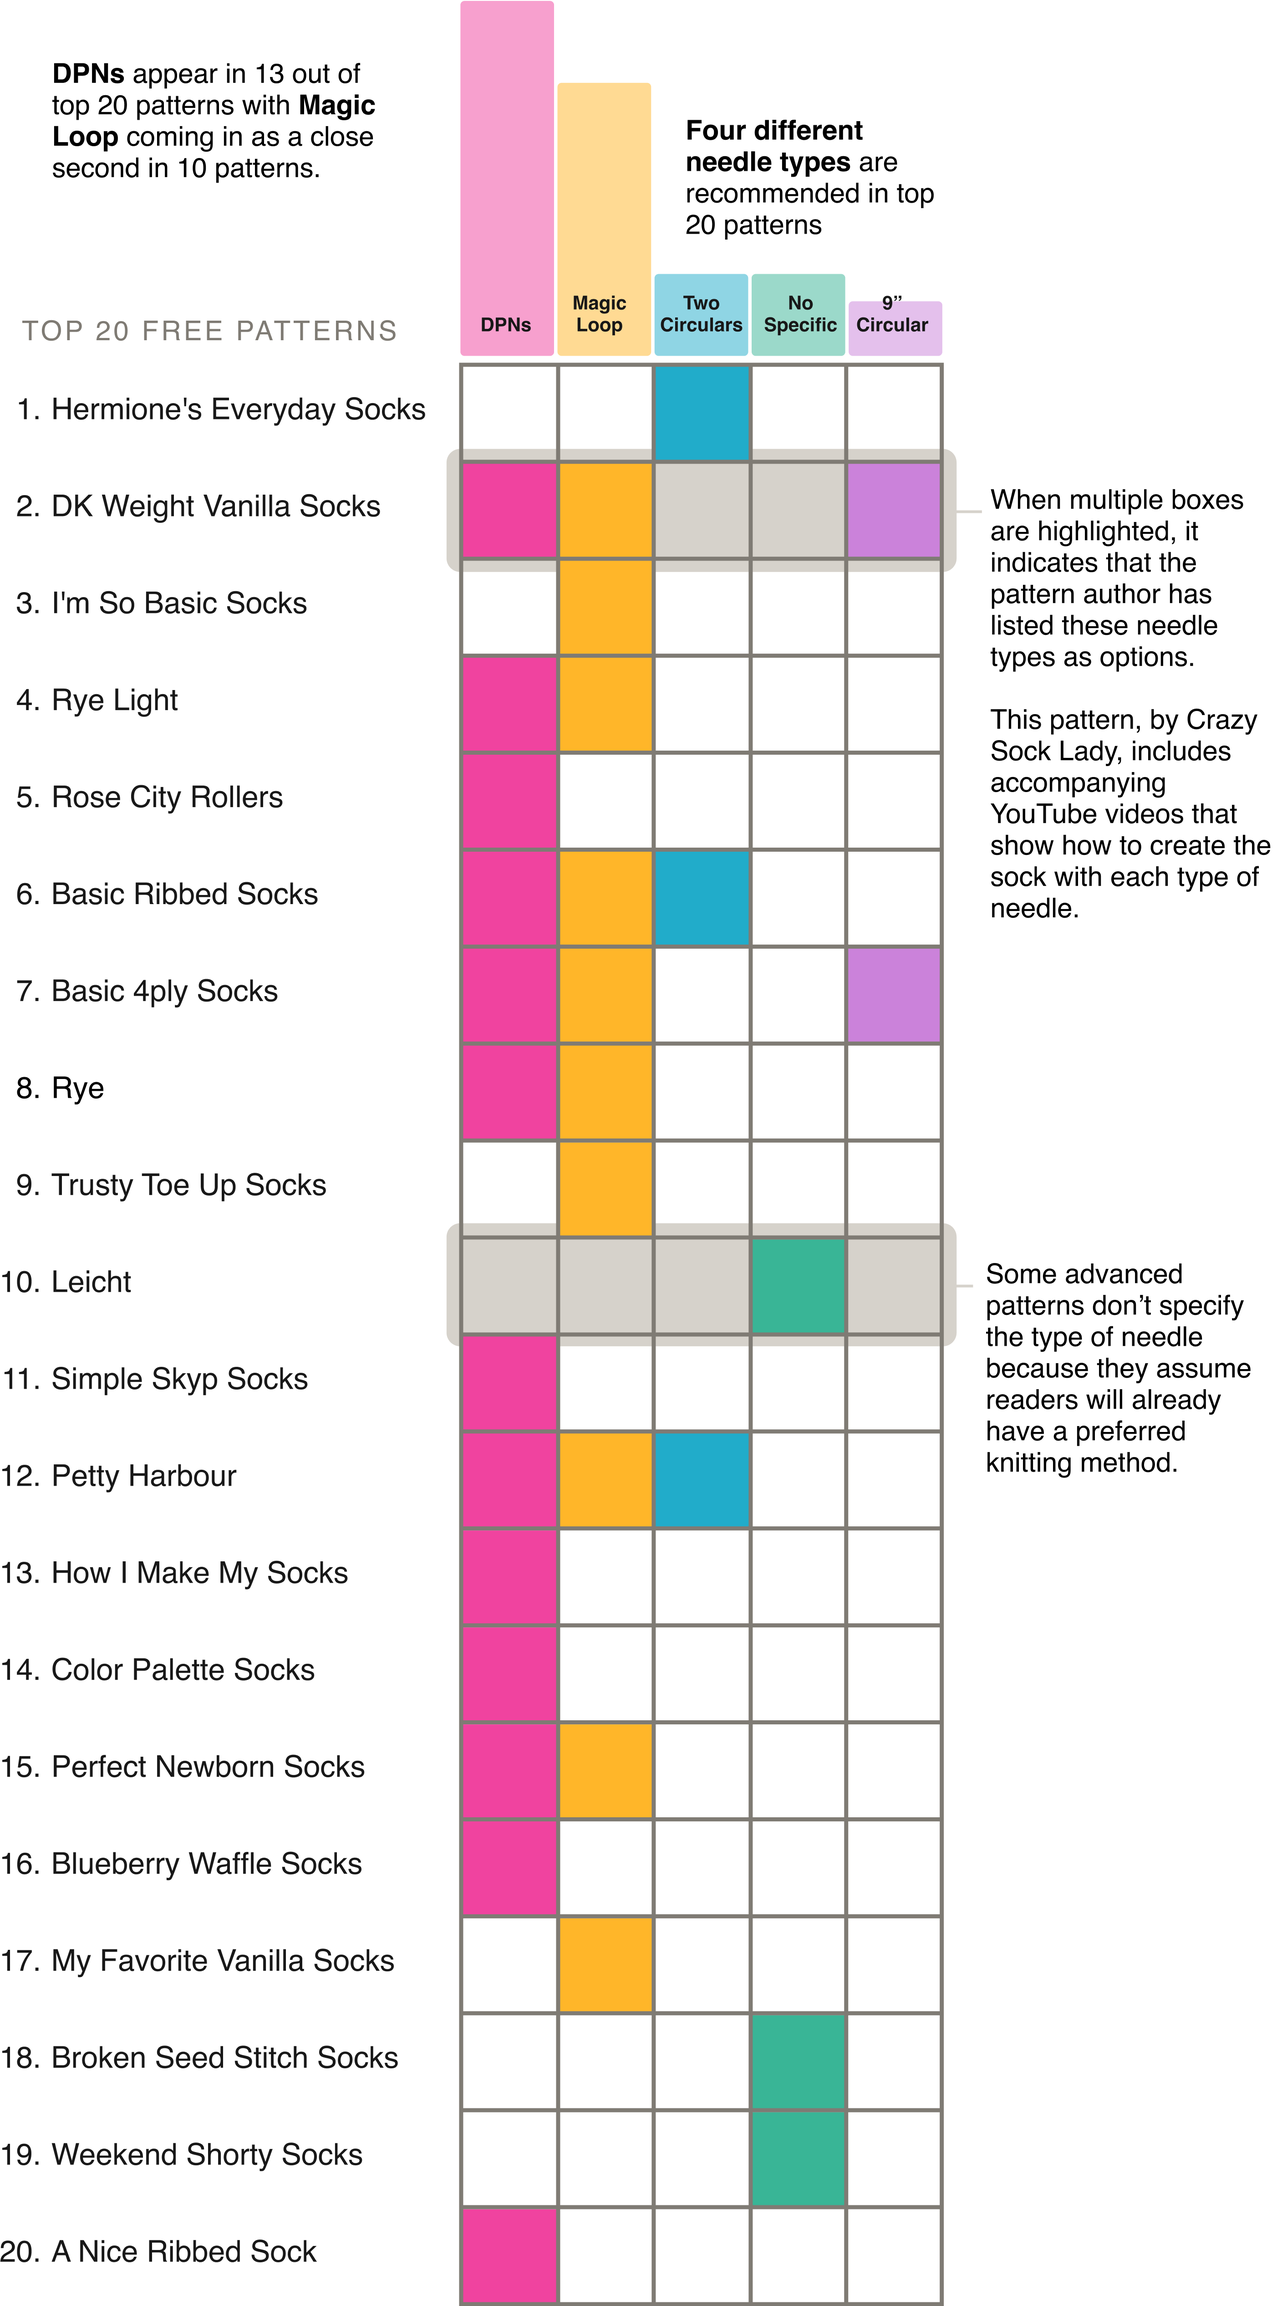
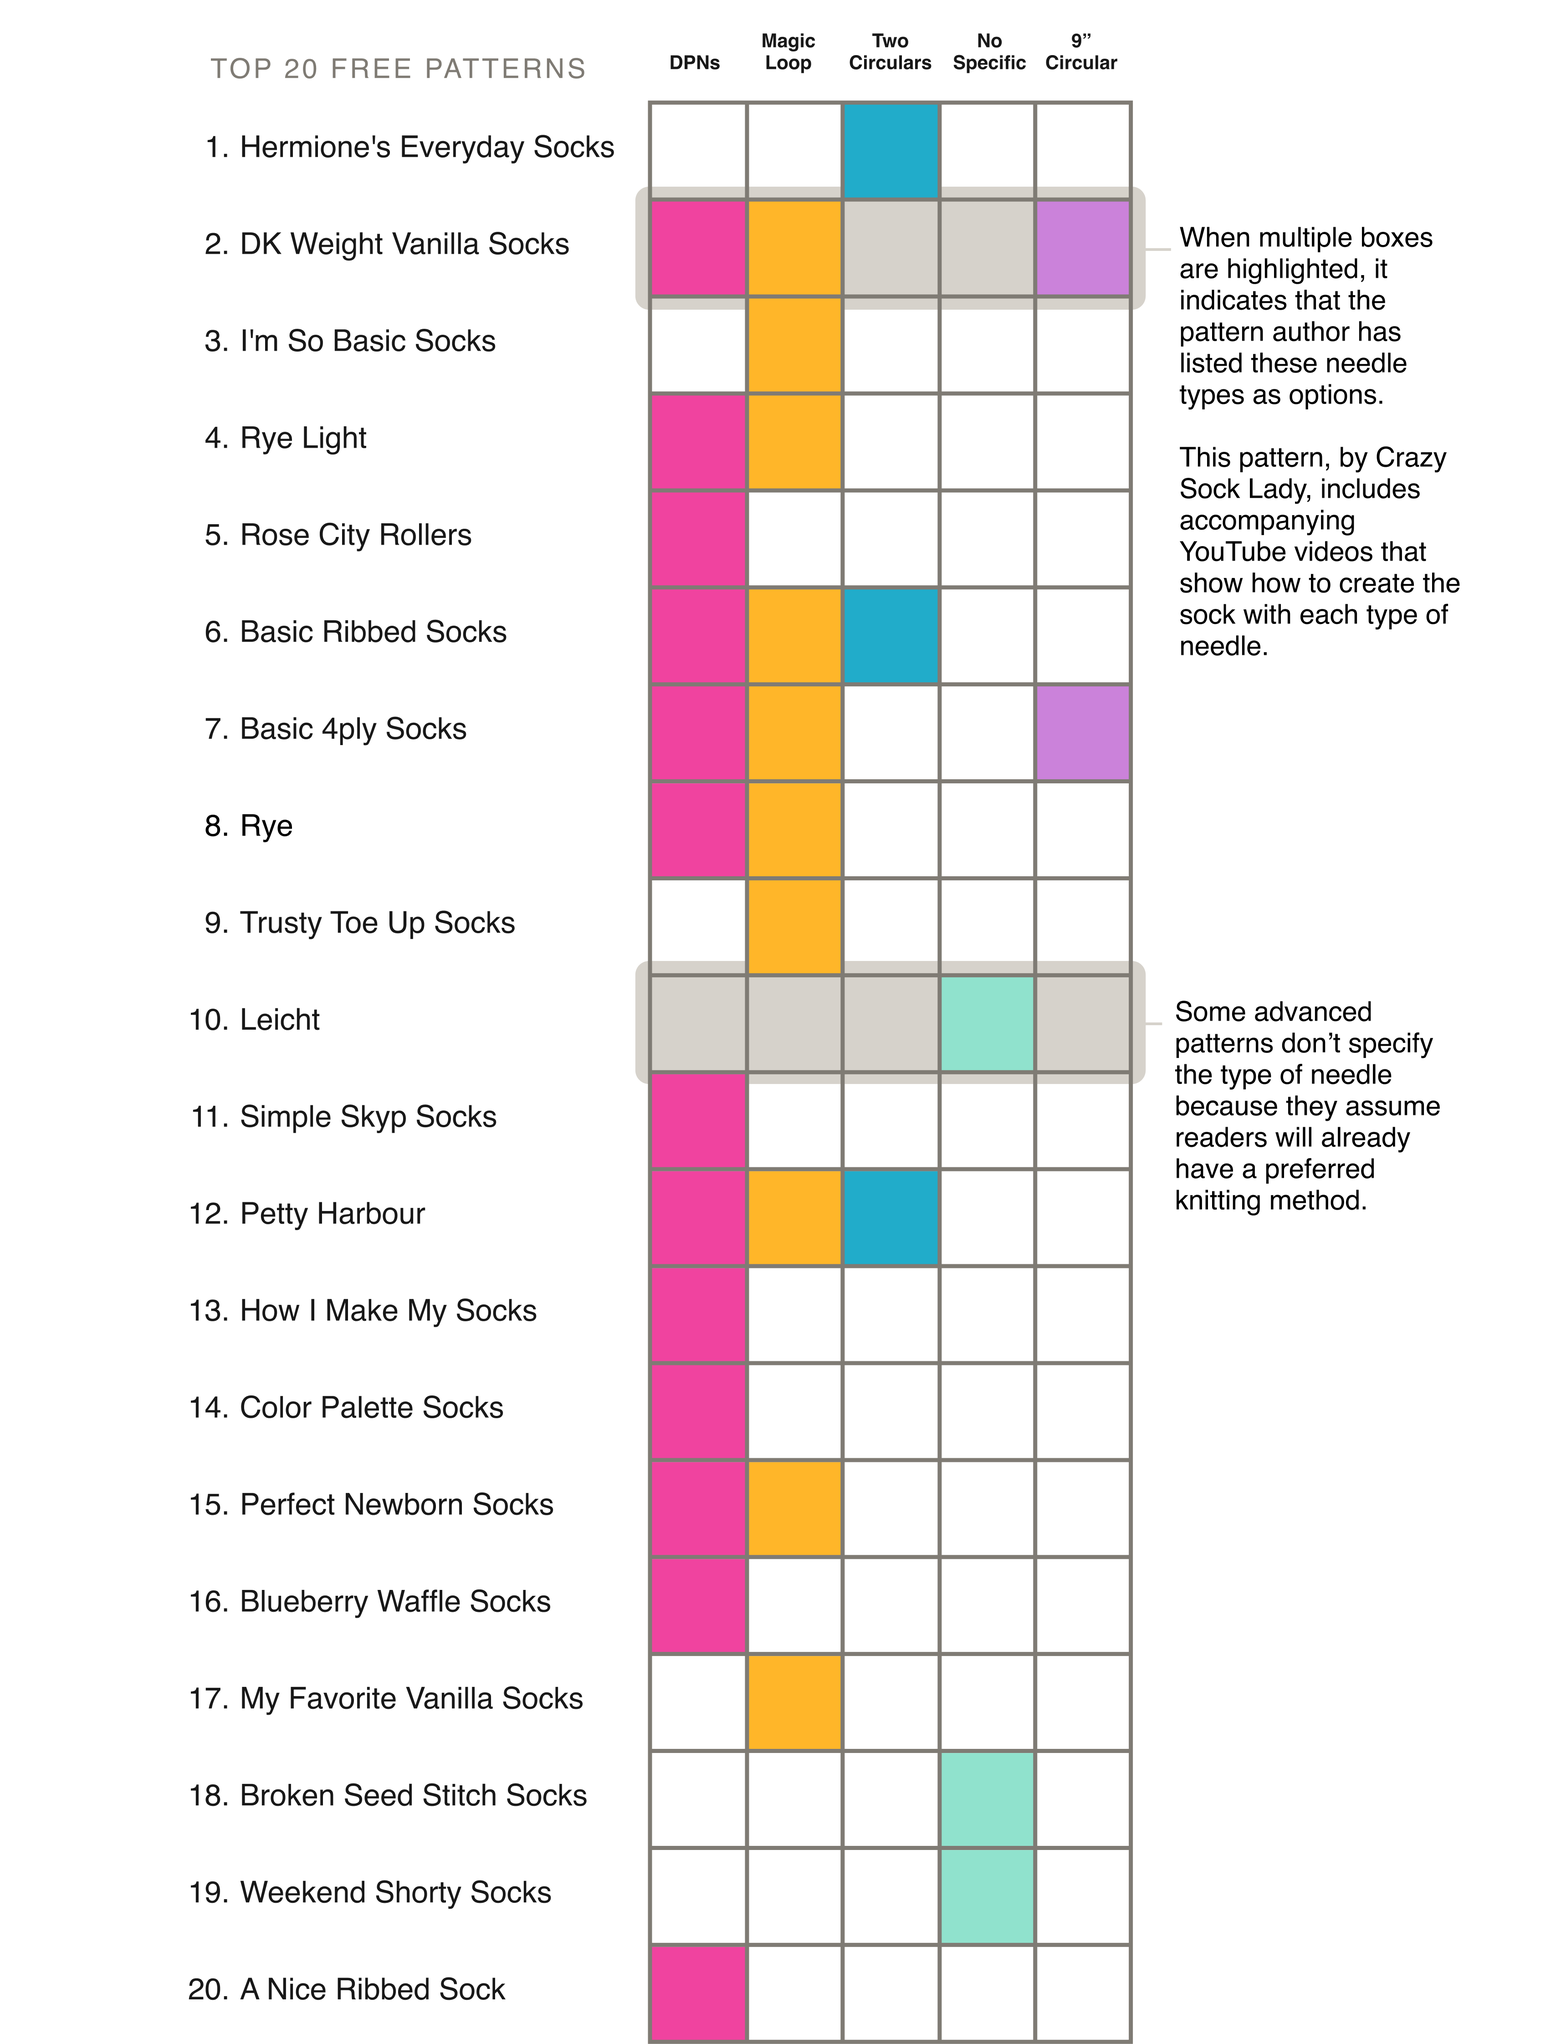
update difficulty chart and story

diff --git a/src/App.svelte b/src/App.svelte
@@ -12,20 +12,18 @@
 />
 <main>
 	<div class="story">
-		<h1>Are Socks Hard to Knit?</h1>
 		<p>
 			I have been knitting ever since I was a kid. I've made many many scarves
 			and attempted (and abandoned) several sweaters. I found scarves to be
-			great gifts but quite boring to knit. Sweaters took far too long and I
-			lost interest quickly.
+			great gifts but quite boring to knit. Sweaters take a long time and I
+			always lost interest early on.
 		</p>
 		<p>
-			Last year I saw someone on Instagram make a pair of socks and I was
-			intrigued. I remembered my friends Grandma knitting socks in the corner
-			whenever she would visit, <strong
+			I remembered my friends grandma knitting socks in the corner whenever she
+			would visit, <strong
 				>but I'd always thought socks were too hard to try.</strong
-			>
-			But when I finally gave it a try, I was hooked!
+			>Last year I saw someone on Instagram make a pair of socks and I was
+			intrigued. I finally decided to give it a go and I was hooked!
 		</p>
 		<p>
 			Having a hand-knit pair of socks was deeply satisfying. The project was
@@ -33,21 +31,36 @@
 			the heel, the toe) gave me a new skill to learn which kept me engaged.
 		</p>
 		<p>
-			It made me wonder why I put off knitting socks for so long. Were socks
-			really as hard as I thought? How did they compare to other common knitting
-			projects?
+			It made me wonder why I put off knitting socks for so long. <strong
+				>Were socks really as hard as I thought?</strong
+			> How did they compare to other common knitting projects?
 		</p>
-		<h2>Investigating sock difficulty through data</h2>
+		<Separator />
+		<h1>Are Socks Hard to Knit?</h1>
+		<h2>What does the data say?</h2>
 		<p>
 			I decided to use Ravelry, a knitting and crochet site, to help answer my
-			questions. There are over 54 thousand sock patterns and more than 2
-			million completed sock projects documented on the site.
+			questions. Ravelry is a pattern database and community site. Pattern
+			creators can upload patterns to the site for makers to find, and then
+			makers can document their projects on the site as well.
+		</p>
+		<p>
+			There are over 54,000 sock patterns and more than two million completed
+			sock projects documented on the site.
+		</p>
+		<p>
+			I was curious whether socks were more or less difficult than other
+			knitting patterns often attempted by beginners. After completing a pattern
+			on Ravelry, knitters can rate the project's difficulty on a scale of 1 to
+			10, with 1 being a "piece of cake" and 10 being "very difficult". I
+			compared the difficulty of some of these common patterns to see how they
+			compared to socks.
 		</p>
 		<span class="spacer-medium" />
 		<ImageChart
 			title="Socks are not harder than other common knitting projects"
 			imgurl="img/ProjectsDifficulty.png"
-			description="Sock, shawl, and sweater patterns concentrate at a difficulty of 3 — between “Easy” and “Medium”. Hats tend to be easier than these other projects, with the largest number of hat patterns falling in the “Easy” category of difficulty. All project types have patterns across the full range of difficulty."
+			description="Hats tend to be easier, with the largest number of hat patterns falling in the “Easy” category of difficulty. Interestingly, sock, shawl, and sweater patterns all concentrate at a difficulty of 3 — between “Easy” and “Medium”."
 		/>
 		<p>
 			The numbers seem to say that socks aren't harder than other common
@@ -68,7 +81,7 @@
 		<ImageChart
 			title="Turning the Heel"
 			imgurl="img/Fear1-HeelTurns.png"
-			description="The general “fear” around socks usually seems to relate to the so-called “heel-turn”. The most popular replies to the question of sock fear had to do with how hard media made sock heels seem."
+			description="The general “fear” around socks usually seems to relate to the so-called “heel-turn”. The most popular replies to the question of sock fear had to do with how media portrayed socks and how those memories made sock heels seem difficult."
 		/>
 		<span class="spacer-medium" />
 		<h6>Fear 1: Debunked</h6>
@@ -90,20 +103,27 @@
 			description="Double pointed needles are a set of 5 needles that are commonly used to knit items with a small circumference such as sleeves, small hats, or socks. And it sounds like avoiding these prickly needles is a big reason knitters avoid socks."
 		/>
 		<p>
-			What these knitters may not know though, is that DPNs are only <strong
+			What these knitters may not have known at first, is that DPNs are only <strong
 				>one of many</strong
 			> ways to knit socks. Other knitters also piped up in the thread to emphasize
 			that DPNs aren't as hard as they look, because you're really only ever knitting
-			with 2 needles at a time.
+			with 2 needles at a time. Some of these knitters expressed that despite their
+			fear, once they tried it, knitting socks wasn't nearly as bad as they thought
+			- and many have grown to love it like I did.
 		</p>
 
 		<span class="spacer-medium" />
 		<h6>Fear 2: Debunked</h6>
 		<ImageChart
+			title="Four types of needles, including DPNs, are recommended in top 20 patterns"
+			imgurl="img/NumNeedles.png"
+			description="Magic Loop comes in at a close second for the most recommended needle type in the top 20 free patterns."
+		/>
+		<ImageChart
 			title="DPNs dominate top 20 free patterns, but are not the only choice"
 			imgurl="img/VerticalNeedleMatrix.png"
-			description="While it's unsurprising that people assume Double Pointed Needles (DPNs) are the only choice, given that 13 out of the top 20 free patterns recommend them, it's worth noting that knitters have many other needle options available. In fact, just across the top 20 patterns, 4 different types of needles are recommended."
-			footnote="“None specified” means the pattern had no mention of the needle type in their instructions. If a pattern mentioned several options, like “Your choice: DPNs, Magic Loop using a 32” cable, 9” Circular.” then I included all of the listed options. For consistency in some cases, I translated “long circular” to mean “Magic Loop”."
+			description="While it's unsurprising that people assume Double Pointed Needles (DPNs) are the only choice, given that 13 out of the top 20 free patterns recommend them, it's worth noting that knitters have many other needle options available. Take a look at the top 20 free patterns to see which needles are recommended."
+			footnote="“No specific” means the pattern had no mention of the needle type in their instructions. If a pattern mentioned several options, like “Your choice: DPNs, Magic Loop using a 32” cable, 9” Circular.” then I included all of the listed options. For consistency in some cases, I translated “long circular” to mean “Magic Loop”."
 		/>
 		<span class="spacer-medium" />
 		<p>
@@ -115,7 +135,9 @@
 		<p>
 			Some people who started with a certain method and were discouraged found
 			that returing to sock knitting with a different approach completely
-			changed their mind about the process.
+			changed their mind about the process. I started with Magic Loop and
+			thought it was really confusing, so I actually completed my first pair of
+			socks with DPNs.
 		</p>
 	</div>
 	<Separator />
@@ -130,6 +152,7 @@
 		<ImageChart
 			title="Not all sock patterns require Fingering weight yarn"
 			imgurl="img/YarnWeightAndDifficulty.png"
+			makeWide={true}
 			description="Although Fingering weight yarn is the most popular choice for socks, there are sock patterns with thicker yarn weights that tend to be easier."
 			footnote="Only includes patterns with one or more difficulty ratings and a description of the yarn weight: 20,568 patterns out of total 54,223 sock patterns"
 		/>
@@ -150,9 +173,9 @@
 		/>
 		<h6>Fear 4: Debunked</h6>
 		<ImageChart
-			title="Although not as common, knitting socks two-at-a-time can help with second sock syndrome"
+			title="Although not as common, knitting socks two-at-a-time is an option"
 			imgurl="img/KnittingMethods.png"
-			description="While knitting one sock at a time, either cuff down or toe up, is the most popular there are patterns for those who'd prefer to knit socks two at a time. This way, by cast off, you have a complete pair of socks instead of needing to start sock number two."
+			description="While knitting one sock at a time, either cuff down or toe up, is the most popular there are patterns for those who'd prefer to knit socks two at a time. This way, by cast off, you have a complete pair of socks instead of needing to start sock number two. This can help with so-called “Second sock syndrome” where people find themselves annoyed at the idea of making another sock."
 			footnote="Two-at-a-time is illustrated here as two socks knit from the cuff down with one set of needles but can also be done from the toe up or with two circular needles."
 		/>
 		<span class="spacer-medium" />
@@ -165,11 +188,12 @@
 		</p>
 	</div>
 	<div class="story">
+		<Separator />
 		<h1>The wonderful world of Sock Knitting</h1>
 		<p>
 			Many of the sock knitting fears we examined earlier were based on the
-			misconception that there was just one way to do something, and that that
-			particular method was scary.
+			misconception that there was just one way to do something, and that
+			specific method was perceived as scary.
 		</p>
 		<p>
 			Knowing what is available can make it easier to pick a new path when you
@@ -196,6 +220,7 @@
 		</p>
 	</div>
 	<div class="story">
+		<Separator />
 		<h6>If you've gotten this far and now want to knit a pair of socks...</h6>
 		<h1>A small sock knitting pep talk</h1>
 		<p>
@@ -204,30 +229,69 @@
 			your knitting journey and what motivates you.
 		</p>
 		<p>
-			I think the most important aspect for new sock knitters is to pick a
-			pattern that holds your hand. That pauses to explain the new concepts
-			coming up and tells you some tips in case you hit a common hurdle.
-		</p>
-		<p>
-			However, no matter how good the pattern is, you may need some more help
-			along the way. As with any new skill, it'll take a bit to get right.
+			I think the most important aspect for new sock knitters is to <strong
+				>pick a pattern that holds your hand.</strong
+			> A pattern that pauses to explain the new concepts coming up and tells you
+			some tips in case you hit a common hurdle.
 		</p>
 		<p>
 			I had already knit the cuff, heel, and half of the foot of my first sock
-			before I realized that a) I was knitting the sock inside out and b) it did
-			not actually fit onto my foot.
+			before I realized that
 		</p>
+		<ol type="a">
+			<li>I was knitting the sock inside out</li>
+			<li>It did not actually fit onto my foot</li>
+		</ol>
 		<p>
 			So I frogged it (knitter speak for: unraveled it) and started over. Every
 			sock I make is better than the last.
 		</p>
+		<p>
+			No matter how good the pattern is, you may need some more help along the
+			way. As with any new skill, it'll take a bit to get right.
+		</p>
+		<p>
+			Here are some tips from me (a pretty new sock knitter) to anyone else
+			thinking of giving it a try:
+		</p>
+
 		<h6>Tip 1</h6>
 		<h2>Don't be afraid to look things up as you go</h2>
 		<p>
 			If you're a visual learner like me, YouTube will be your best friend.
 			Whenever I'd stumble on a new concept, I'd look it up with the needle type
-			I was using (e.g. "Picking up stitches DPNs socks").
+			I was using (e.g. "Joining in the round DPNs socks").
 		</p>
+		<ol>
+			<li>
+				Denise, aka EarthtonesGirl, has a lot of great videos that cover sock
+				techniques part by part in the (aptly named) "No Fear Sock Knitting" <a
+					href="https://www.youtube.com/playlist?list=PLCZwTjf0a7DHx4GmgjQ1sjqIWczcSmWoz"
+					target="_blank">series of videos</a
+				>.
+			</li>
+			<li>
+				If you want to follow along knitting a sock from beginning to end with a
+				particular needle type I'd recommend checking out CrazySockLady's <a
+					href="https://www.youtube.com/playlist?list=PL1AVMWlYaMynXcAbQSrySxqw3LeERSRCw"
+					target="_blank">series of videos.</a
+				> I used these to learn new types of needles like 9" circulars.
+			</li>
+			<li>
+				Norman, aka NimbleNeedles, has a ton of sock information as well,
+				including this <a
+					href="https://youtu.be/2-W_0vMNZig?si=ZAPgDQahNUG3G9h9"
+					target="_blank">great video on getting a sock started on DPNs</a
+				> by joining in the round.
+			</li>
+			<li>
+				VeryPink Knits also has a series of slow-motion videos for particular
+				techniques such as <a
+					href="https://youtu.be/9dYP_GeHLG0?si=AB57k9EECTZxUDWj"
+					target="_blank">grafting the toe together.</a
+				>
+			</li>
+		</ol>
 		<h6>Tip 2</h6>
 		<h2>Know what motivates you</h2>
 		<p>

diff --git a/src/app.css b/src/app.css
@@ -1,4 +1,4 @@
-a,abbr,acronym,address,applet,article,aside,audio,b,big,blockquote,body,canvas,caption,center,cite,code,dd,del,details,dfn,div,dl,dt,em,embed,fieldset,figcaption,figure,footer,form,h1,h2,h3,h4,h5,h6,header,hgroup,html,i,iframe,img,ins,kbd,label,legend,li,mark,menu,nav,object,ol,output,p,pre,q,ruby,s,samp,section,small,span,strike,strong,sub,summary,sup,table,tbody,td,tfoot,th,thead,time,tr,tt,u,ul,var,video{margin:0;padding:0;border:0;font-size:100%;font:inherit;vertical-align:baseline}article,aside,details,figcaption,figure,footer,header,hgroup,menu,nav,section{display:block}body{line-height:1}ol,ul{list-style:none}blockquote,q{quotes:none}blockquote:after,blockquote:before,q:after,q:before{content:'';content:none}table{border-collapse:collapse;border-spacing:0}
+a,abbr,acronym,address,applet,article,aside,audio,b,big,blockquote,body,canvas,caption,center,cite,code,dd,del,details,dfn,div,dl,dt,em,embed,fieldset,figcaption,figure,footer,form,h1,h2,h3,h4,h5,h6,header,hgroup,html,i,iframe,img,ins,kbd,label,legend,li,mark,menu,nav,object,ol,output,p,pre,q,ruby,s,samp,section,small,span,strike,strong,sub,summary,sup,table,tbody,td,tfoot,th,thead,time,tr,tt,u,ul,var,video{margin:0;padding:0;border:0;font-size:100%;font:inherit;vertical-align:baseline}article,aside,details,figcaption,figure,footer,header,hgroup,menu,nav,section{display:block}body{line-height:1}blockquote,q{quotes:none}blockquote:after,blockquote:before,q:after,q:before{content:'';content:none}table{border-collapse:collapse;border-spacing:0}
 
 :root {
   --white: #fef9ef;
@@ -55,9 +55,17 @@ h6 {
   margin-bottom: 0.5em;
 }
 
-p {
+p, li {
   font-size: 1.2em;
   font-weight: lighter;
+}
+li {
+  margin-bottom: 1em;
+}
+
+ol {
+  margin-left: 3em;
+  margin-bottom: 1em;
 }
 
 h5 {
@@ -67,7 +75,6 @@ h5 {
 
 .matrix-title {
   width: 100%;
-  max-width: 600px;
 }
 
 .matrix-title h1, h6 {

diff --git a/src/StackedChart.svelte b/src/StackedChart.svelte
@@ -159,8 +159,12 @@
 </script>
 
 <div class="matrix-title">
-	<h6>What are the most popular tags over time?</h6>
-	<h2>Popular sock techniques over the years</h2>
+	<h2>What can go into knitting a sock?</h2>
+	<p>
+		Explore the most popular sock techniques over the years. See trends of the
+		most popular parts of a sock. Maybe find a new technique to try for your
+		first (or next) pair of socks.
+	</p>
 	<div class="spacer-small" />
 	<h5>Click the tabs to see tag trends in different categories.</h5>
 	<div class="spacer-small" />

diff --git a/src/ImageChart.svelte b/src/ImageChart.svelte
@@ -4,6 +4,11 @@
 	export let description = '';
 	export let footnote = '';
 	export let makeWide = false;
+
+	$: {
+		console.log(title);
+		console.log(makeWide);
+	}
 </script>
 
 <div class="story">
@@ -19,7 +24,7 @@
         <source srcset="flowers.jpg"> -->
 	<img
 		src={imgurl}
-		alt="Dot plot showing that heel tags are not the most difficult"
+		alt={description}
 		style="width:auto;"
 	/>
 </picture>
